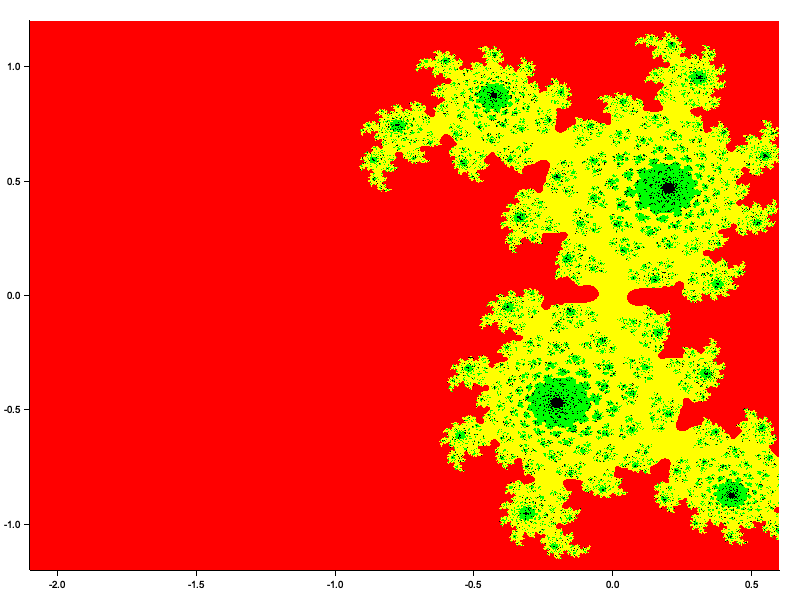
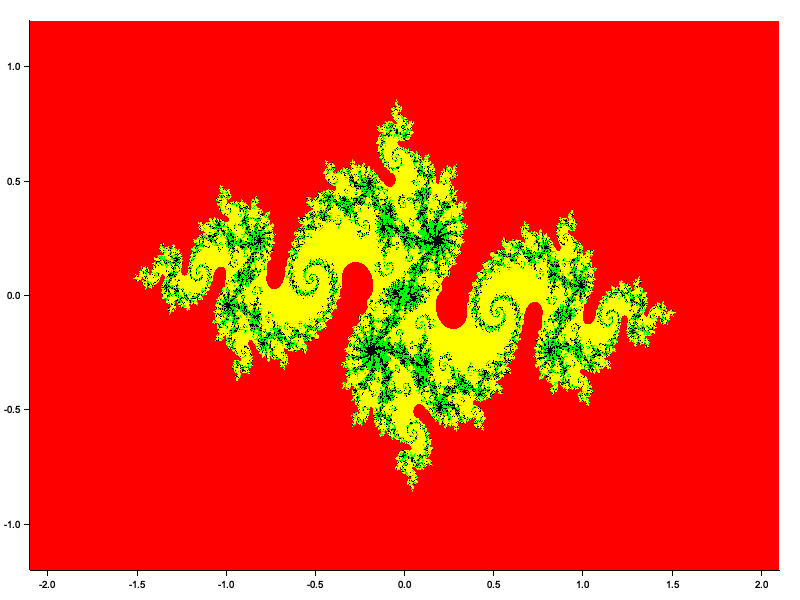
Change size of cartesian map depending on set

diff --git a/src/lib.rs b/src/lib.rs
@@ -81,7 +81,7 @@ fn julia(mut z: Complex) -> Color {
     }
 
     // Random value to c
-    let c = Complex(0.38, 0.28);
+    let c = Complex(-0.79, 0.15);
 
     // fc(z) = z^2 + c
     while Complex::get_absolute_value_of_complex_number(z) <= 2.0 {
@@ -133,11 +133,16 @@ fn plot(set: Set) {
 
     root.fill(&WHITE).unwrap();
 
+    let cartesian_2d = match set {
+      Set::MANDELBROT => (-2.1f64..0.6f64, -1.2f64..1.2f64),
+      Set::JULIA => (-2.1f64..2.1f64, -1.2f64..1.2f64),
+  };
+
     let mut chart = ChartBuilder::on(&root)
         .margin(20)
         .x_label_area_size(10)
         .y_label_area_size(10)
-        .build_cartesian_2d(-2.1f64..0.6f64, -1.2f64..1.2f64)
+        .build_cartesian_2d(cartesian_2d.0, cartesian_2d.1)
         .unwrap();
 
     chart
